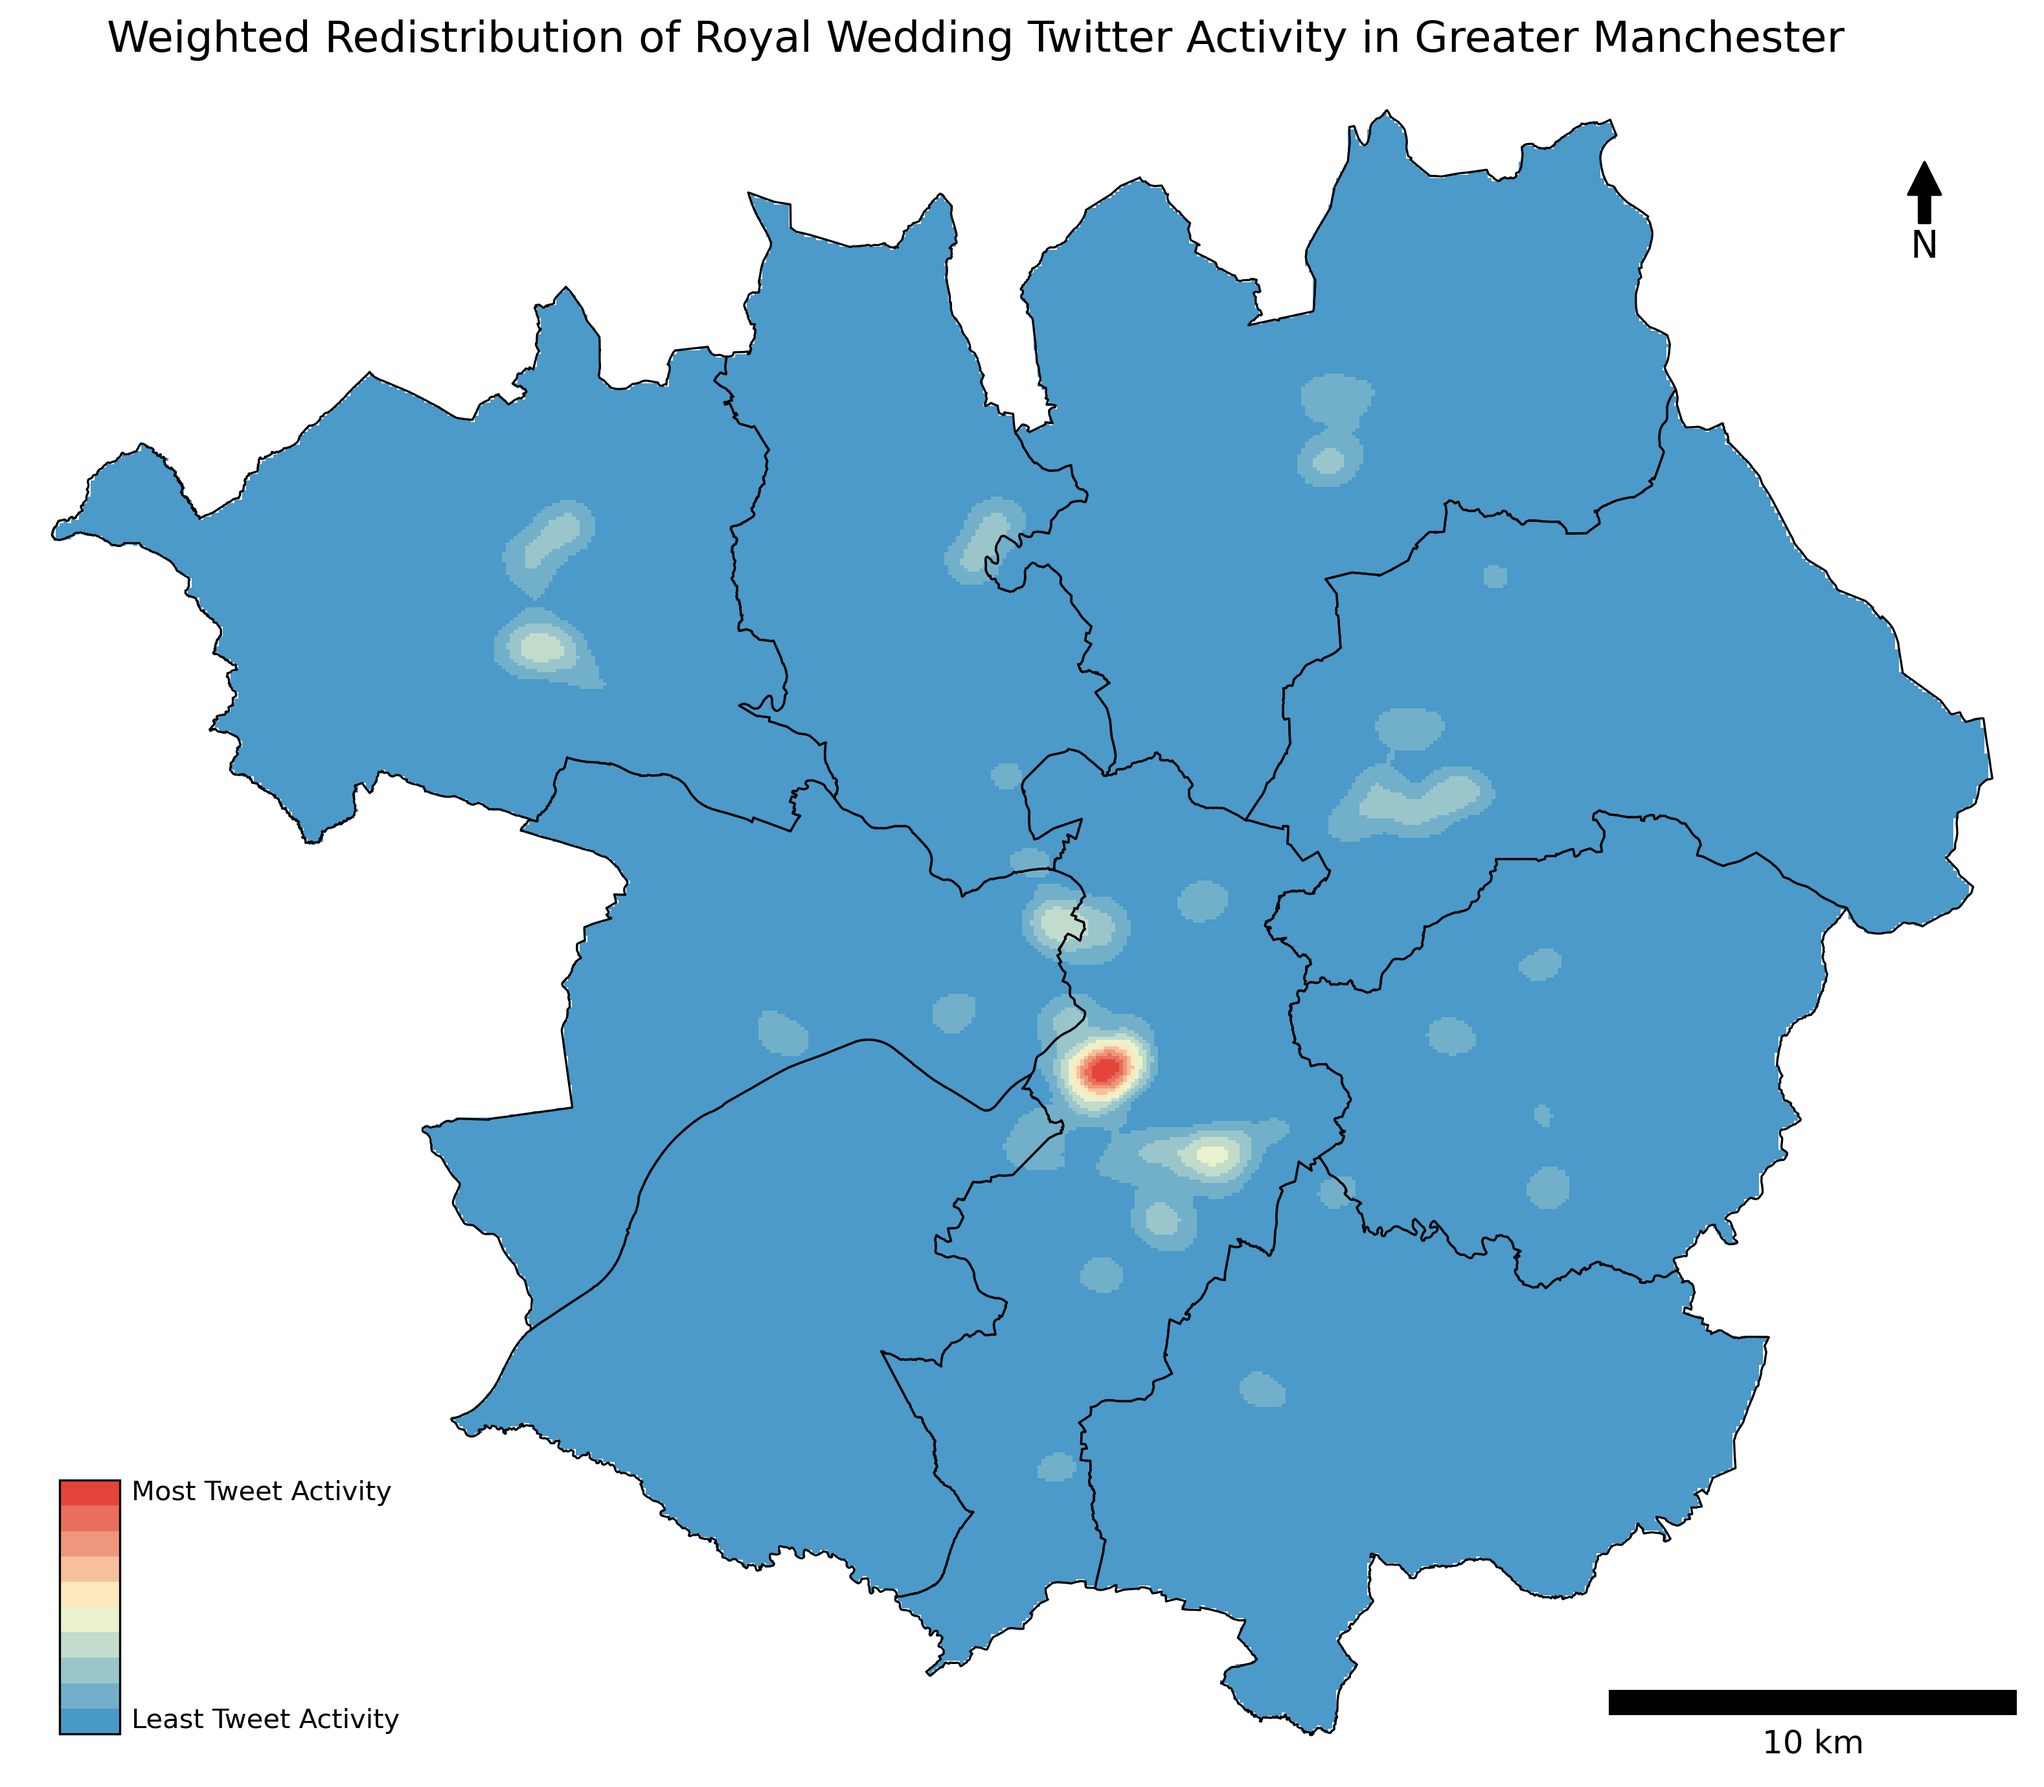
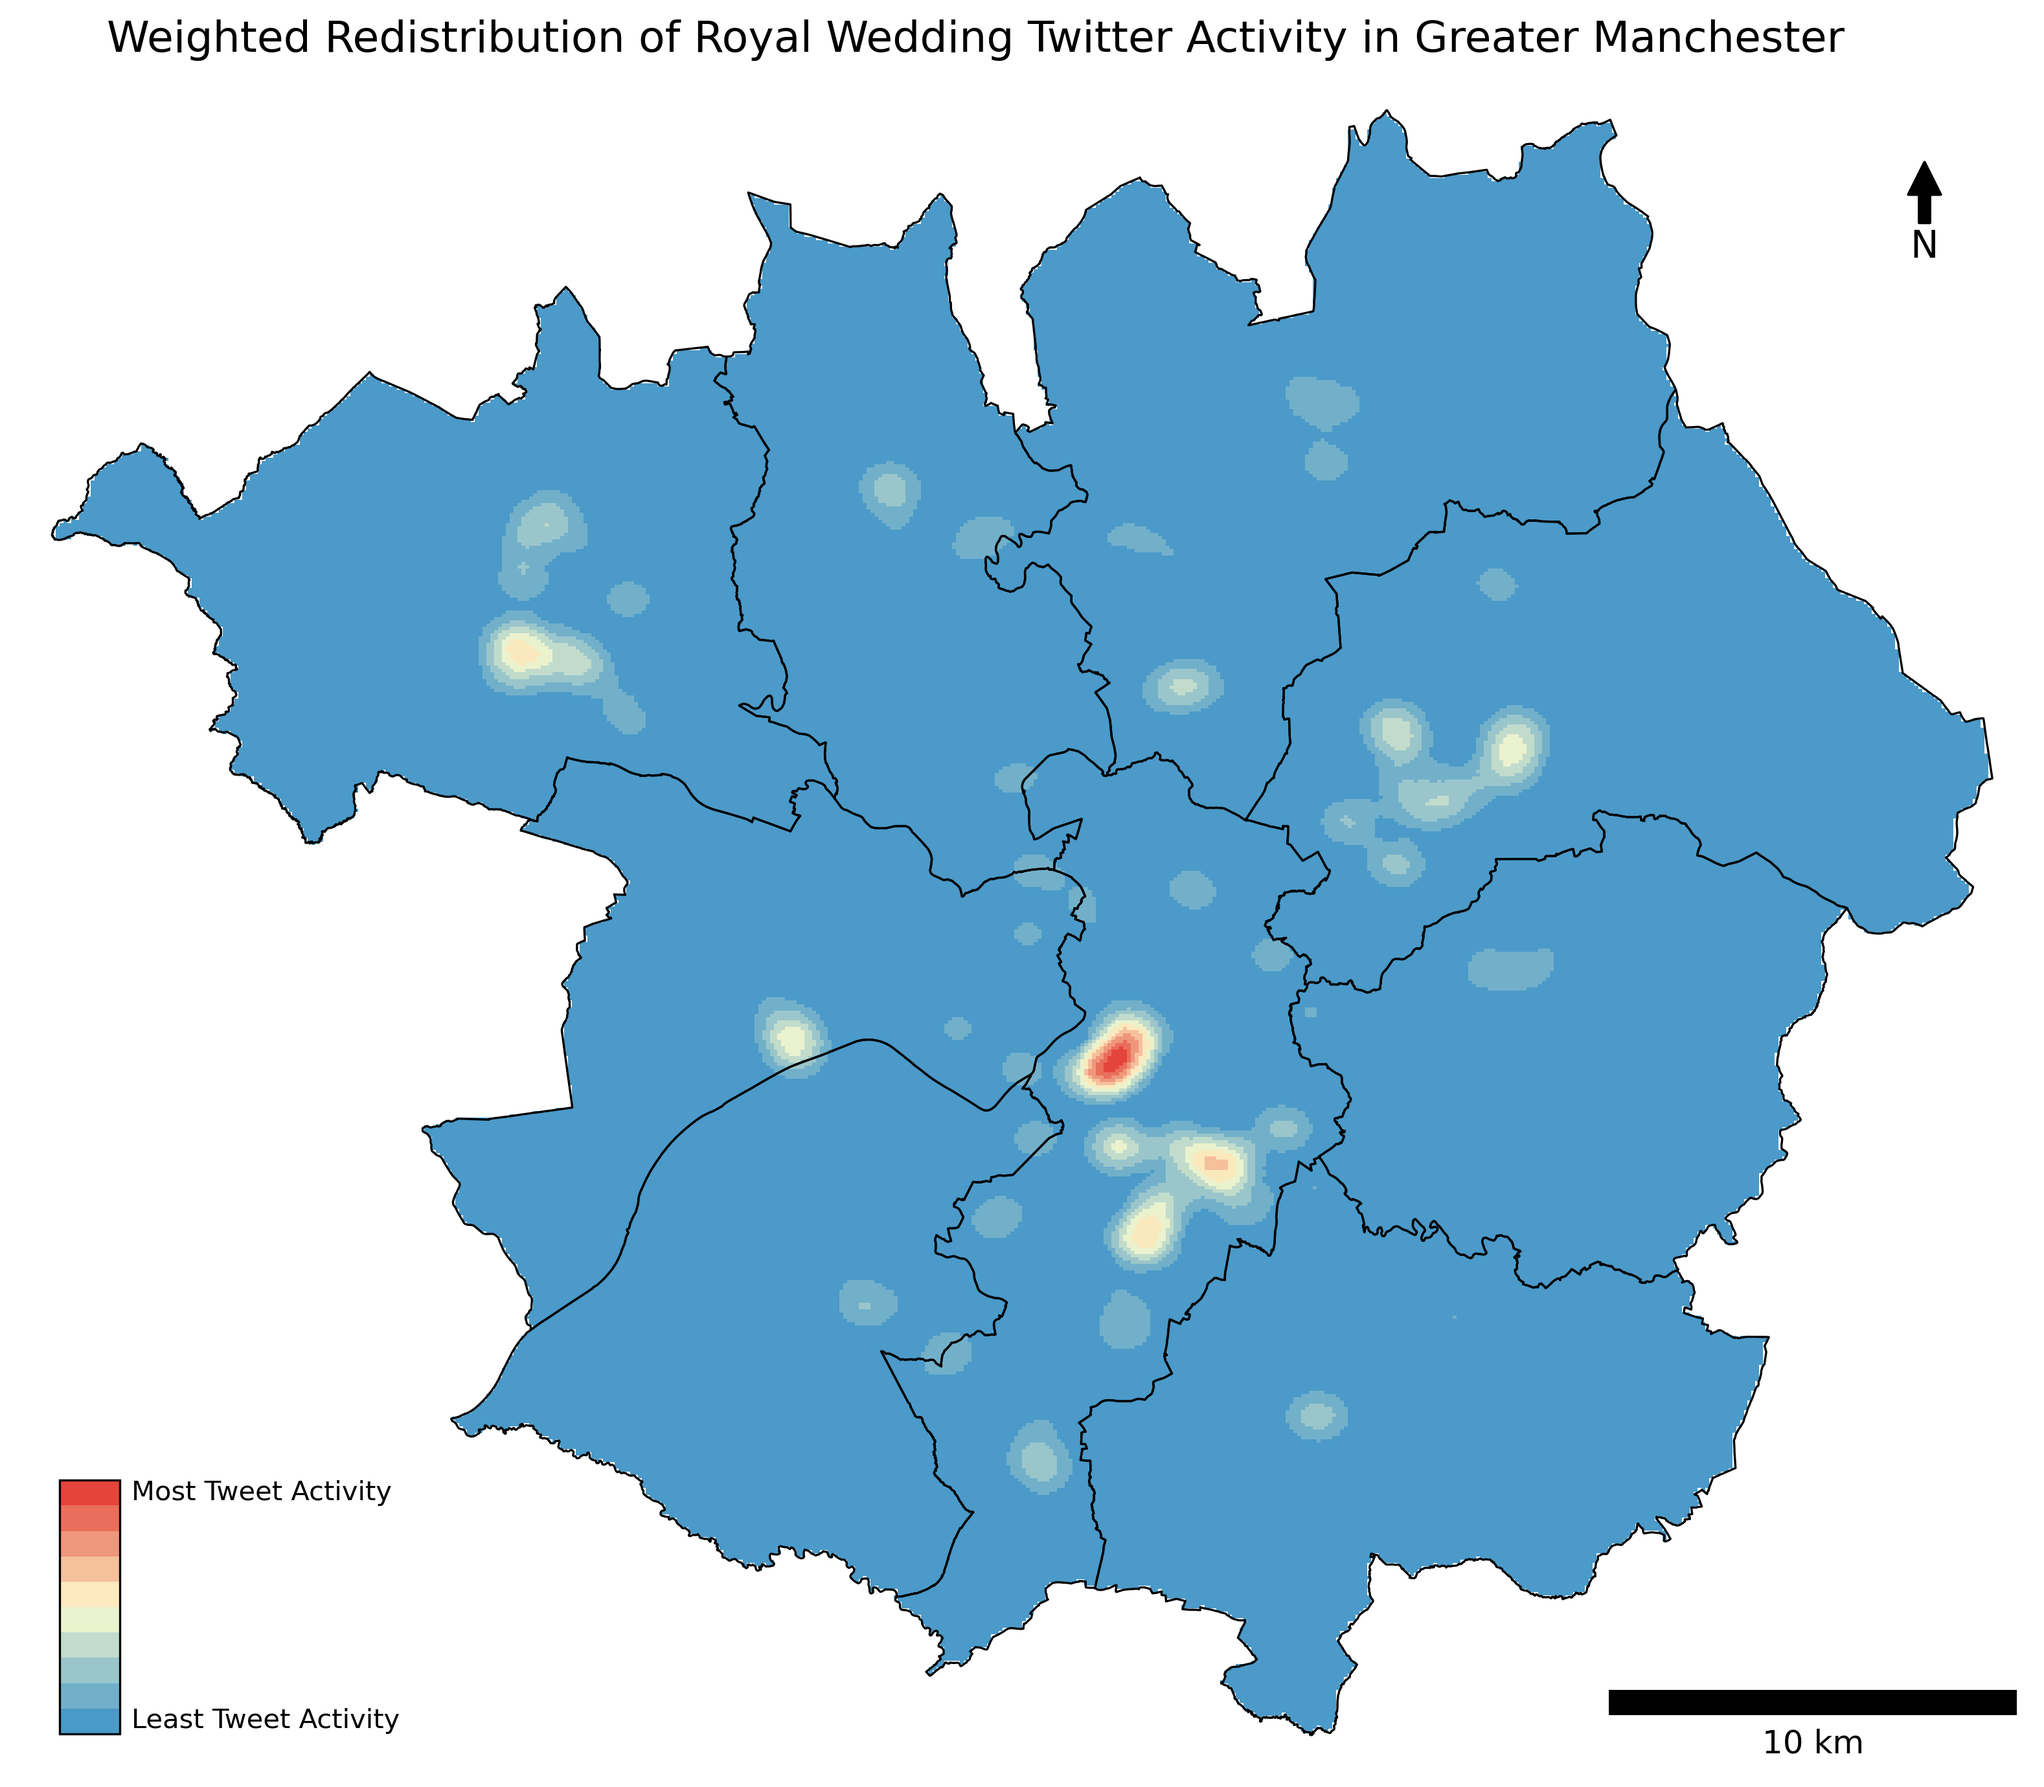
Optimize and simplify the code 1

diff --git a/assessment2.py b/assessment2.py
@@ -13,33 +13,29 @@ start_time = perf_counter()
 import geopandas as gpd
 import rasterio
 import numpy as np
-import os
 import matplotlib.pyplot as plt
 import shapely
-from shapely import Point
 from numpy.random import uniform, random
 from math import radians, sin, cos
 from shapely import Point, minimum_bounding_circle
 from matplotlib_scalebar.scalebar import ScaleBar
-from shapely.vectorized import contains
 from matplotlib.colors import LinearSegmentedColormap
 
 # 1.Set running foundation
-# Load data
 def load_gis_data():
+    
+    # Load data
     tweets = gpd.read_file("./data/wr/level3-tweets-subset.shp")
     gm_districts = gpd.read_file("./data/wr/gm-districts.shp")
     pop_raster = rasterio.open("./data/wr/100m_pop_2019.tif")
-    return tweets, pop_raster, gm_districts
     
-# Merge boundaries and get study area
-def merge_gm_boundary(gm_districts):
-    gm_global_geom = gm_districts.geometry.union_all()
+    # Merge boundaries to get study area
+    gm_global_geom = gm_districts.unary_union
     gm_bounds = gm_global_geom.bounds
-    return gm_global_geom, gm_bounds, gm_districts
+    return tweets, pop_raster, gm_districts, gm_global_geom, gm_bounds
     
 # 2.Generate random points in study area
-def generate_random_points(gm_global_geom, n=1000):
+def generate_random_points(gm_global_geom, n=500):
     
     # Generate repeatable random points
     np.random.seed(42)
@@ -128,8 +124,8 @@ def select_hotspot_seeds(random_points, gm_global_geom, pop_raster):
     # Calculate the radius of the circle
     min_circle_radius = center.distance(Point(min_circle_poly.exterior.coords[0]))
     
-    # Define the fuzziness factor is 0.2
-    max_offset = min_circle_radius * 0.2
+    # Define the fuzziness factor is 0.15
+    max_offset = min_circle_radius * 0.15
     
     # Creat candidate relocated seed points list
     seed_candidates = []
@@ -138,7 +134,7 @@ def select_hotspot_seeds(random_points, gm_global_geom, pop_raster):
     for idx, point in enumerate(random_points):
 
         # Iterate and relocation 10 times
-        relocated_point, weight = relocate_point(point, gm_global_geom, 20, max_offset, pop_raster)
+        relocated_point, weight = relocate_point(point, gm_global_geom, 10, max_offset, pop_raster)
         
         # Store the relocated point's coordinates and weight
         seed_candidates.append((relocated_point.x, relocated_point.y, weight))
@@ -290,8 +286,7 @@ def visualize_hotspot(gm_districts, X, Y, density, gm_bounds, gm_global_geom):
 # Main program
 if __name__ == "__main__":
     # Full workflow call
-    tweets, pop_raster, gm_districts = load_gis_data()
-    gm_global_geom, gm_bounds, gm_districts = merge_gm_boundary(gm_districts)
+    tweets, pop_raster, gm_districts, gm_global_geom, gm_bounds = load_gis_data()
     random_points = generate_random_points(gm_global_geom)
     seed_coords, seed_weights = select_hotspot_seeds(random_points, gm_global_geom, pop_raster)
     X, Y, density = calculate_weighted_density(seed_coords, seed_weights, gm_bounds, gm_global_geom)
